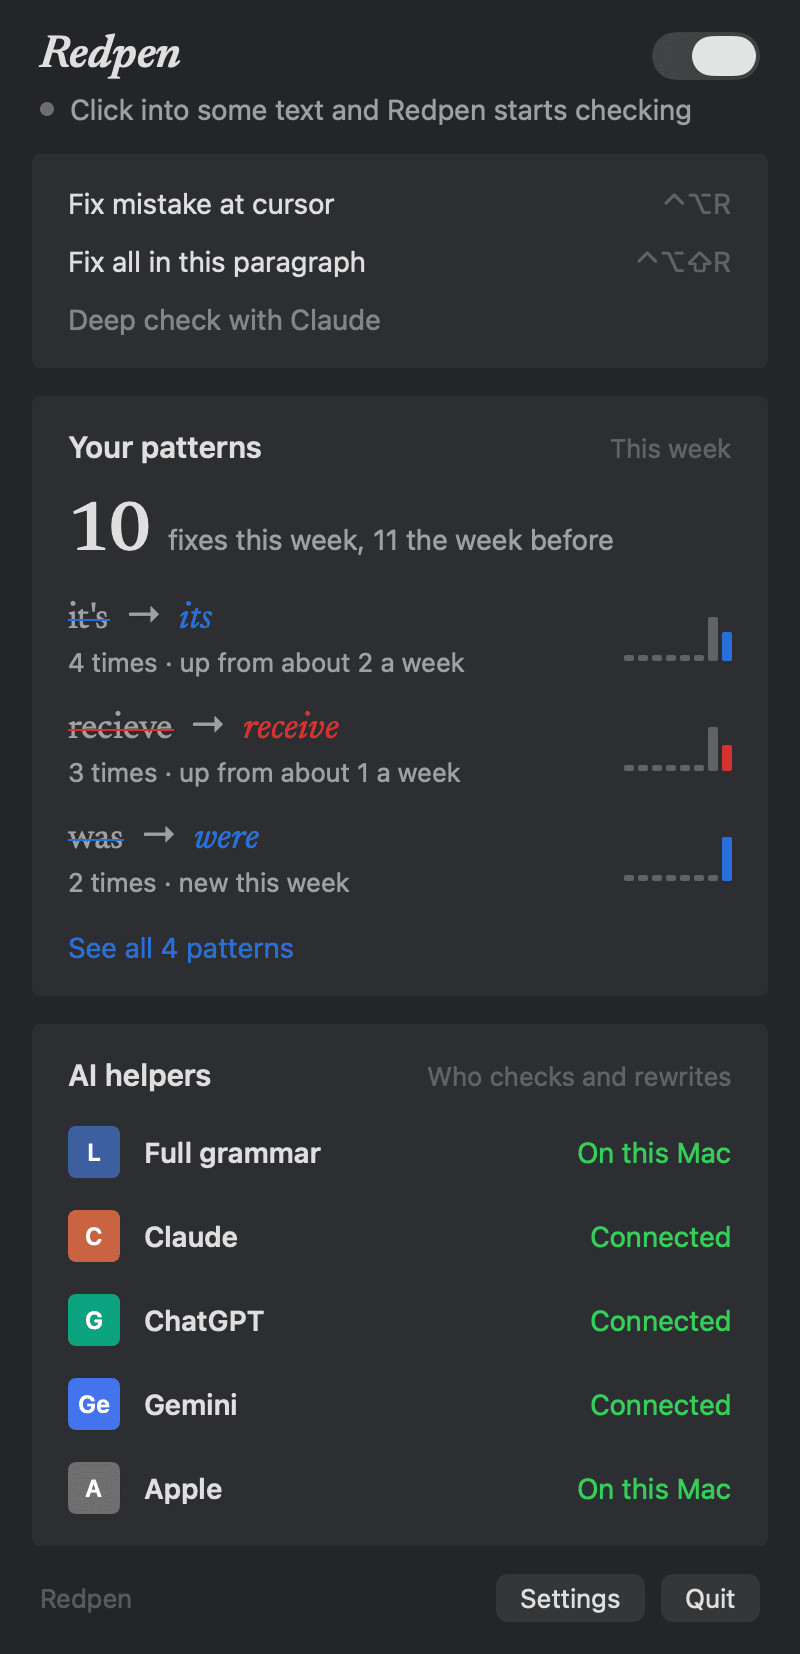
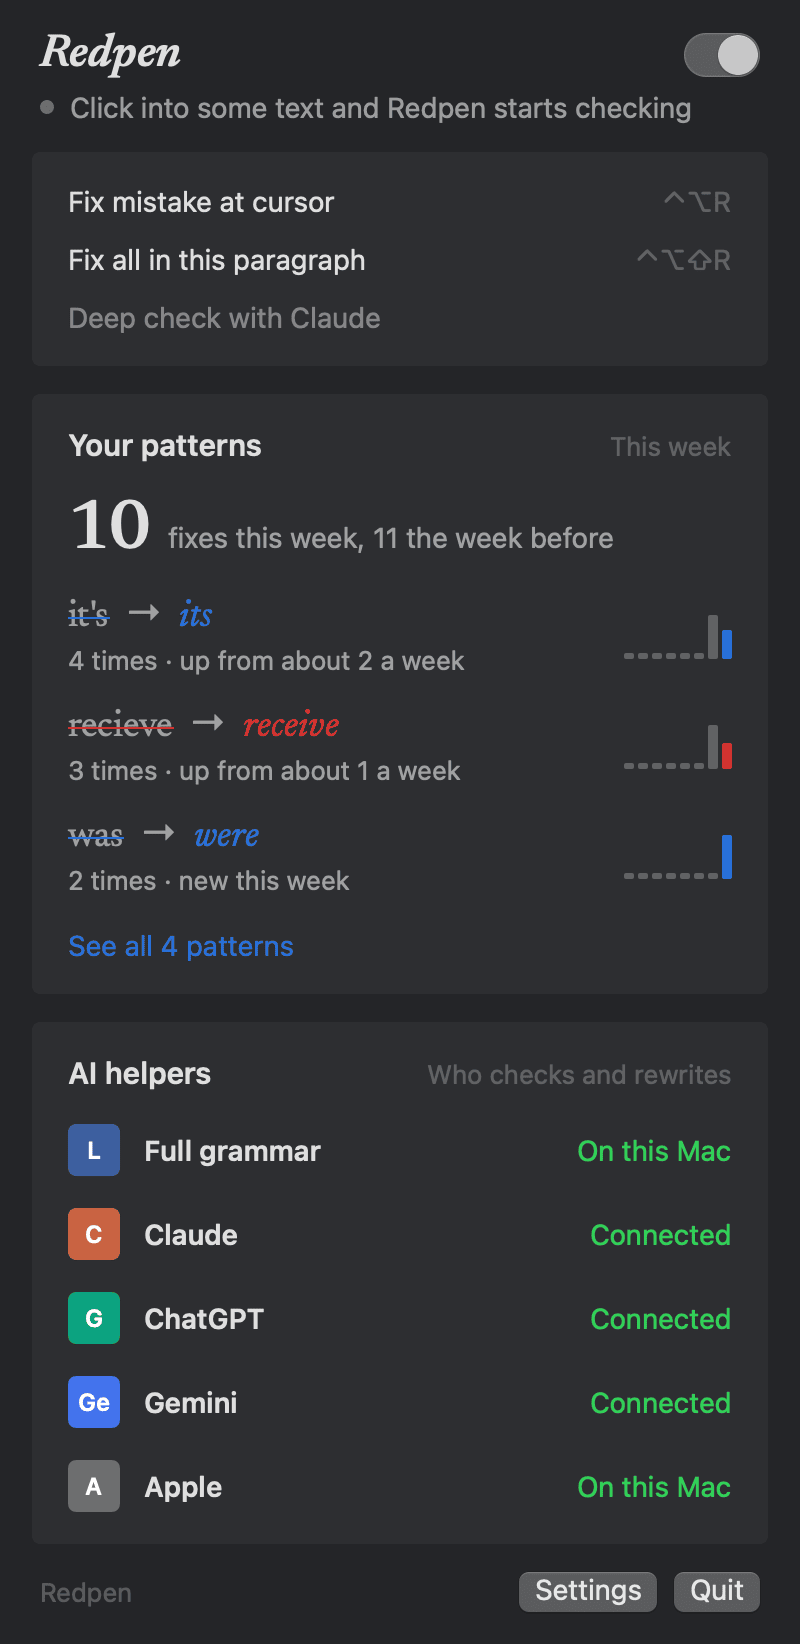
Version 0.6; mistakes list locked across Redpen processes
A second Redpen trimming the list could drop a fix the running one was adding; record
and trim now share a lock file. README: building needs macOS 15.6 and Xcode 26, the
download runs on macOS 14. Menu and Settings screenshots re-taken with the 0.6 look.

diff --git a/Sources/RedpenCore/Mistakes.swift b/Sources/RedpenCore/Mistakes.swift
@@ -33,14 +33,26 @@ public final class Mistakes: @unchecked Sendable {
         enc.dateEncodingStrategy = .iso8601
         guard var line = try? enc.encode(rec) else { return }
         line.append(0x0A)
-        lock.lock(); defer { lock.unlock() }
         try? FileManager.default.createDirectory(at: url.deletingLastPathComponent(), withIntermediateDirectories: true)
-        if let h = try? FileHandle(forWritingTo: url) {
-            h.seekToEndOfFile(); h.write(line); try? h.close()
-        } else {
-            try? line.write(to: url)
-            Private.lock(url)
+        exclusive {
+            if let h = try? FileHandle(forWritingTo: url) {
+                h.seekToEndOfFile(); h.write(line); try? h.close()
+            } else {
+                try? line.write(to: url)
+                Private.lock(url)
+            }
         }
+    }
+
+    /// Runs `body` holding this object's lock and a lock file every Redpen process shares, so a second copy
+    /// trimming the list can't drop a fix the running app is adding. The list itself is replaced on trim,
+    /// so the lock lives in its own file beside it.
+    private func exclusive<T>(_ body: () -> T) -> T {
+        lock.lock(); defer { lock.unlock() }
+        let fd = open(url.path + ".lock", O_CREAT | O_RDWR, 0o600)
+        if fd >= 0 { flock(fd, LOCK_EX) }
+        defer { if fd >= 0 { flock(fd, LOCK_UN); close(fd) } }
+        return body()
     }
 
     public func all() -> [MistakeRecord] {
@@ -51,11 +63,15 @@ public final class Mistakes: @unchecked Sendable {
         return text.split(separator: "\n").compactMap { try? dec.decode(MistakeRecord.self, from: Data($0.utf8)) }
     }
 
-    /// Keeps only the last `days` days, since nothing Redpen shows looks back further than 30. Run at launch.
+    /// Keeps only the last `days` days, since nothing Redpen shows looks back further than eight weeks. Run at launch.
     /// A line whose date can't be read is kept, so a format change never empties the file.
     public func trim(keepDays days: Int = 90, now: Date = Date()) {
+        guard FileManager.default.fileExists(atPath: url.path) else { return }
+        exclusive { trimLocked(days, now) }
+    }
+
+    private func trimLocked(_ days: Int, _ now: Date) {
         struct Dated: Decodable { let date: Date }
-        lock.lock(); defer { lock.unlock() }
         guard let text = try? String(contentsOf: url, encoding: .utf8) else { return }
         let since = now.addingTimeInterval(-Double(days) * 86_400)
         let dec = JSONDecoder()

diff --git a/Sources/redpen-test/main.swift b/Sources/redpen-test/main.swift
@@ -315,7 +315,23 @@ func safetyChecks() {
     check("a line Redpen can't read is kept, not wiped", (try? String(contentsOf: mURL, encoding: .utf8))?.contains("not a record") == true)
     let perms = (try? FileManager.default.attributesOfItem(atPath: mURL.path)[.posixPermissions] as? Int) ?? 0
     check("the trimmed list stays owner-only", perms == 0o600)
+    // A second Redpen trimming while the running one records must not drop fixes (Codex 0.6 review).
+    let writer = Mistakes(url: mURL), trimmer = Mistakes(url: mURL)
+    let recent = { writer.all().filter { $0.date >= now.addingTimeInterval(-86_400) }.count }
+    let before = recent()
+    let group = DispatchGroup()
+    DispatchQueue.global().async(group: group) {
+        for _ in 0..<300 {
+            writer.record(recieve, replacement: "receive", app: "test", at: now)
+            // An old fix each round, so every trim has something to drop and rewrites the file.
+            writer.record(recieve, replacement: "receive", app: "test", at: now.addingTimeInterval(-200 * 86_400))
+        }
+    }
+    DispatchQueue.global().async(group: group) { for _ in 0..<600 { trimmer.trim(now: now) } }
+    group.wait()
+    check("trimming in another copy never drops a new fix", recent() == before + 300)
     try? FileManager.default.removeItem(at: mURL)
+    try? FileManager.default.removeItem(atPath: mURL.path + ".lock")
 
     print(failed == 0 ? "safety checks: all pass" : "safety checks: \(failed) failed")
     if failed > 0 { exit(1) }

diff --git a/README.md b/README.md
@@ -70,7 +70,7 @@ Fewer flags on finished writing means fewer interruptions while you work.
 
 ## Build from source
 
-You need **macOS 14 Sonoma or later** (macOS 26 for the Apple Intelligence checks), **Xcode** (free, from the Mac App Store; open it once after installing), and **[Homebrew](https://brew.sh)** for the grammar engine. **Apple Intelligence** turned on is recommended: without it Redpen still runs, minus the confused-word and meaning checks.
+To build it you need **macOS 15.6 or later**, **Xcode 26 or later** (free, from the Mac App Store; open it once after installing), and **[Homebrew](https://brew.sh)** for the grammar engine. **Apple Intelligence** turned on is recommended: without it Redpen still runs, minus the confused-word and meaning checks.
 
 ```sh
 git clone https://github.com/cjaynewton/redpen-grammar-mac.git
